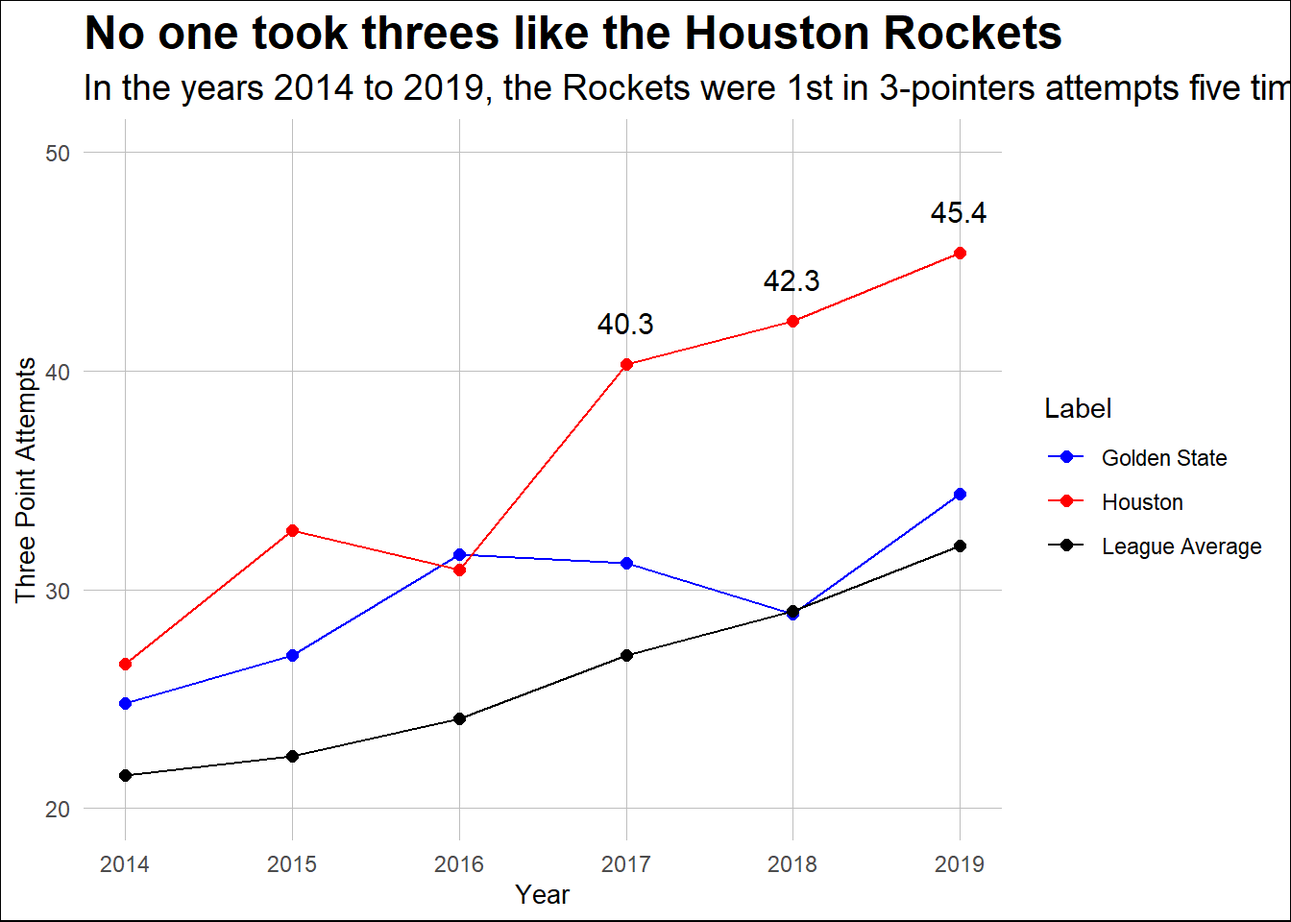
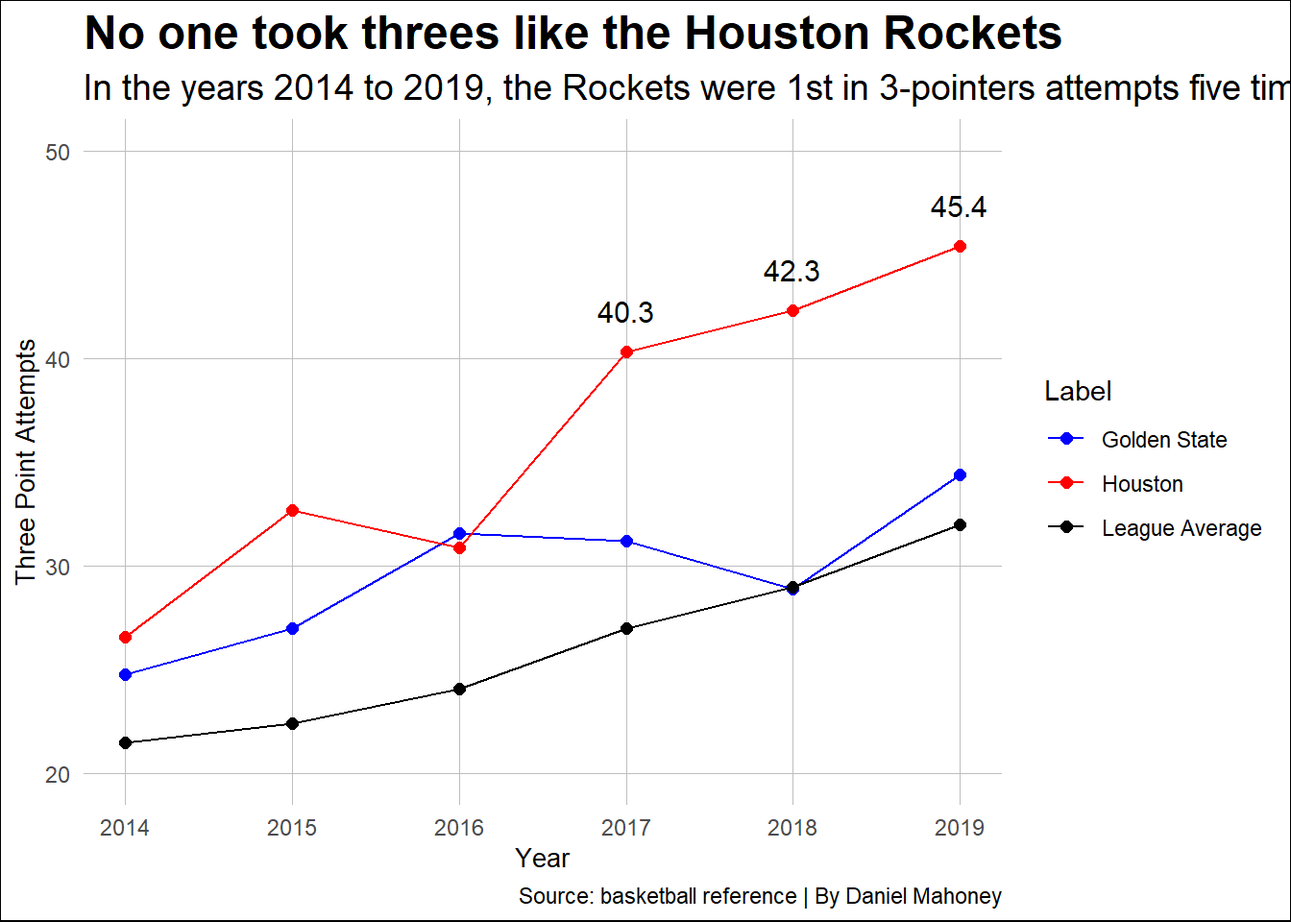
update index.html

diff --git a/posts/three-point-revolution/index.html b/posts/three-point-revolution/index.html
@@ -283,40 +283,41 @@ pre > code.sourceCode > span > a:first-child::before { text-decoration: underlin
 <span id="cb2-39"><a href="#cb2-39" aria-hidden="true" tabindex="-1"></a>    <span class="at">y =</span> <span class="st">"Three Point Attempts"</span>, <span class="at">x =</span> <span class="st">"Year"</span>,</span>
 <span id="cb2-40"><a href="#cb2-40" aria-hidden="true" tabindex="-1"></a>    <span class="at">title =</span> <span class="st">"No one took threes like the Houston Rockets"</span>,</span>
 <span id="cb2-41"><a href="#cb2-41" aria-hidden="true" tabindex="-1"></a>    <span class="at">subtitle =</span> <span class="st">"In the years 2014 to 2019, the Rockets were 1st in 3-pointers attempts five times in six years"</span>,</span>
-<span id="cb2-42"><a href="#cb2-42" aria-hidden="true" tabindex="-1"></a>    <span class="at">color =</span> <span class="st">"Label"</span>  </span>
-<span id="cb2-43"><a href="#cb2-43" aria-hidden="true" tabindex="-1"></a>  ) <span class="sc">+</span></span>
-<span id="cb2-44"><a href="#cb2-44" aria-hidden="true" tabindex="-1"></a>  <span class="fu">geom_text</span>(</span>
-<span id="cb2-45"><a href="#cb2-45" aria-hidden="true" tabindex="-1"></a>    <span class="fu">aes</span>(<span class="at">x =</span> <span class="dv">2017</span>, <span class="at">y =</span> <span class="fl">40.7</span>, <span class="at">label =</span> <span class="st">"40.3"</span>),</span>
-<span id="cb2-46"><a href="#cb2-46" aria-hidden="true" tabindex="-1"></a>    <span class="at">color =</span> <span class="st">"black"</span>,</span>
-<span id="cb2-47"><a href="#cb2-47" aria-hidden="true" tabindex="-1"></a>    <span class="at">size =</span> <span class="dv">4</span>,</span>
-<span id="cb2-48"><a href="#cb2-48" aria-hidden="true" tabindex="-1"></a>    <span class="at">vjust =</span> <span class="sc">-</span><span class="dv">1</span>,  </span>
-<span id="cb2-49"><a href="#cb2-49" aria-hidden="true" tabindex="-1"></a>    <span class="at">hjust =</span> <span class="fl">0.5</span>, </span>
-<span id="cb2-50"><a href="#cb2-50" aria-hidden="true" tabindex="-1"></a>  ) <span class="sc">+</span></span>
-<span id="cb2-51"><a href="#cb2-51" aria-hidden="true" tabindex="-1"></a>  <span class="fu">geom_text</span>(</span>
-<span id="cb2-52"><a href="#cb2-52" aria-hidden="true" tabindex="-1"></a>    <span class="fu">aes</span>(<span class="at">x =</span> <span class="dv">2018</span>, <span class="at">y =</span> <span class="fl">42.7</span>, <span class="at">label =</span> <span class="st">"42.3"</span>),</span>
-<span id="cb2-53"><a href="#cb2-53" aria-hidden="true" tabindex="-1"></a>    <span class="at">color =</span> <span class="st">"black"</span>,</span>
-<span id="cb2-54"><a href="#cb2-54" aria-hidden="true" tabindex="-1"></a>    <span class="at">size =</span> <span class="dv">4</span>,</span>
-<span id="cb2-55"><a href="#cb2-55" aria-hidden="true" tabindex="-1"></a>    <span class="at">vjust =</span> <span class="sc">-</span><span class="dv">1</span>,  </span>
-<span id="cb2-56"><a href="#cb2-56" aria-hidden="true" tabindex="-1"></a>    <span class="at">hjust =</span> <span class="fl">0.5</span>, </span>
-<span id="cb2-57"><a href="#cb2-57" aria-hidden="true" tabindex="-1"></a>  ) <span class="sc">+</span></span>
-<span id="cb2-58"><a href="#cb2-58" aria-hidden="true" tabindex="-1"></a>  <span class="fu">geom_text</span>(</span>
-<span id="cb2-59"><a href="#cb2-59" aria-hidden="true" tabindex="-1"></a>    <span class="fu">aes</span>(<span class="at">x =</span> <span class="dv">2019</span>, <span class="at">y =</span> <span class="fl">45.8</span>, <span class="at">label =</span> <span class="st">"45.4"</span>),</span>
-<span id="cb2-60"><a href="#cb2-60" aria-hidden="true" tabindex="-1"></a>    <span class="at">color =</span> <span class="st">"black"</span>,</span>
-<span id="cb2-61"><a href="#cb2-61" aria-hidden="true" tabindex="-1"></a>    <span class="at">size =</span> <span class="dv">4</span>,</span>
-<span id="cb2-62"><a href="#cb2-62" aria-hidden="true" tabindex="-1"></a>    <span class="at">vjust =</span> <span class="sc">-</span><span class="dv">1</span>,  </span>
-<span id="cb2-63"><a href="#cb2-63" aria-hidden="true" tabindex="-1"></a>    <span class="at">hjust =</span> <span class="fl">0.5</span>, </span>
-<span id="cb2-64"><a href="#cb2-64" aria-hidden="true" tabindex="-1"></a>  ) <span class="sc">+</span></span>
-<span id="cb2-65"><a href="#cb2-65" aria-hidden="true" tabindex="-1"></a>  <span class="fu">theme_minimal</span>() <span class="sc">+</span></span>
-<span id="cb2-66"><a href="#cb2-66" aria-hidden="true" tabindex="-1"></a>  <span class="fu">theme</span>(</span>
-<span id="cb2-67"><a href="#cb2-67" aria-hidden="true" tabindex="-1"></a>    <span class="at">plot.title =</span> <span class="fu">element_text</span>(<span class="at">size =</span> <span class="dv">18</span>, <span class="at">face =</span> <span class="st">"bold"</span>), </span>
-<span id="cb2-68"><a href="#cb2-68" aria-hidden="true" tabindex="-1"></a>    <span class="at">plot.background =</span> <span class="fu">element_rect</span>(<span class="at">fill =</span> <span class="st">"white"</span>),</span>
-<span id="cb2-69"><a href="#cb2-69" aria-hidden="true" tabindex="-1"></a>    <span class="at">plot.subtitle =</span> <span class="fu">element_text</span>(<span class="at">size =</span> <span class="dv">14</span>),  </span>
-<span id="cb2-70"><a href="#cb2-70" aria-hidden="true" tabindex="-1"></a>    <span class="at">axis.title =</span> <span class="fu">element_text</span>(<span class="at">size =</span> <span class="dv">10</span>),  </span>
-<span id="cb2-71"><a href="#cb2-71" aria-hidden="true" tabindex="-1"></a>    <span class="at">axis.text =</span> <span class="fu">element_text</span>(<span class="at">size =</span> <span class="dv">9</span>),  </span>
-<span id="cb2-72"><a href="#cb2-72" aria-hidden="true" tabindex="-1"></a>    <span class="at">strip.text =</span> <span class="fu">element_text</span>(<span class="at">size =</span> <span class="dv">10</span>, <span class="at">face =</span> <span class="st">"bold"</span>),  </span>
-<span id="cb2-73"><a href="#cb2-73" aria-hidden="true" tabindex="-1"></a>    <span class="at">panel.grid.minor =</span> <span class="fu">element_blank</span>(),  </span>
-<span id="cb2-74"><a href="#cb2-74" aria-hidden="true" tabindex="-1"></a>    <span class="at">panel.grid.major =</span> <span class="fu">element_line</span>(<span class="at">color =</span> <span class="st">"gray"</span>, <span class="at">size =</span> <span class="fl">0.2</span>)  </span>
-<span id="cb2-75"><a href="#cb2-75" aria-hidden="true" tabindex="-1"></a>  )</span></code><button title="Copy to Clipboard" class="code-copy-button"><i class="bi"></i></button></pre></div>
+<span id="cb2-42"><a href="#cb2-42" aria-hidden="true" tabindex="-1"></a>    <span class="at">caption =</span> <span class="st">"Source: basketball reference | By Daniel Mahoney"</span>,  </span>
+<span id="cb2-43"><a href="#cb2-43" aria-hidden="true" tabindex="-1"></a>    <span class="at">color =</span> <span class="st">"Label"</span>  </span>
+<span id="cb2-44"><a href="#cb2-44" aria-hidden="true" tabindex="-1"></a>  ) <span class="sc">+</span></span>
+<span id="cb2-45"><a href="#cb2-45" aria-hidden="true" tabindex="-1"></a>  <span class="fu">geom_text</span>(</span>
+<span id="cb2-46"><a href="#cb2-46" aria-hidden="true" tabindex="-1"></a>    <span class="fu">aes</span>(<span class="at">x =</span> <span class="dv">2017</span>, <span class="at">y =</span> <span class="fl">40.7</span>, <span class="at">label =</span> <span class="st">"40.3"</span>),</span>
+<span id="cb2-47"><a href="#cb2-47" aria-hidden="true" tabindex="-1"></a>    <span class="at">color =</span> <span class="st">"black"</span>,</span>
+<span id="cb2-48"><a href="#cb2-48" aria-hidden="true" tabindex="-1"></a>    <span class="at">size =</span> <span class="dv">4</span>,</span>
+<span id="cb2-49"><a href="#cb2-49" aria-hidden="true" tabindex="-1"></a>    <span class="at">vjust =</span> <span class="sc">-</span><span class="dv">1</span>,  </span>
+<span id="cb2-50"><a href="#cb2-50" aria-hidden="true" tabindex="-1"></a>    <span class="at">hjust =</span> <span class="fl">0.5</span></span>
+<span id="cb2-51"><a href="#cb2-51" aria-hidden="true" tabindex="-1"></a>  ) <span class="sc">+</span></span>
+<span id="cb2-52"><a href="#cb2-52" aria-hidden="true" tabindex="-1"></a>  <span class="fu">geom_text</span>(</span>
+<span id="cb2-53"><a href="#cb2-53" aria-hidden="true" tabindex="-1"></a>    <span class="fu">aes</span>(<span class="at">x =</span> <span class="dv">2018</span>, <span class="at">y =</span> <span class="fl">42.7</span>, <span class="at">label =</span> <span class="st">"42.3"</span>),</span>
+<span id="cb2-54"><a href="#cb2-54" aria-hidden="true" tabindex="-1"></a>    <span class="at">color =</span> <span class="st">"black"</span>,</span>
+<span id="cb2-55"><a href="#cb2-55" aria-hidden="true" tabindex="-1"></a>    <span class="at">size =</span> <span class="dv">4</span>,</span>
+<span id="cb2-56"><a href="#cb2-56" aria-hidden="true" tabindex="-1"></a>    <span class="at">vjust =</span> <span class="sc">-</span><span class="dv">1</span>,  </span>
+<span id="cb2-57"><a href="#cb2-57" aria-hidden="true" tabindex="-1"></a>    <span class="at">hjust =</span> <span class="fl">0.5</span></span>
+<span id="cb2-58"><a href="#cb2-58" aria-hidden="true" tabindex="-1"></a>  ) <span class="sc">+</span></span>
+<span id="cb2-59"><a href="#cb2-59" aria-hidden="true" tabindex="-1"></a>  <span class="fu">geom_text</span>(</span>
+<span id="cb2-60"><a href="#cb2-60" aria-hidden="true" tabindex="-1"></a>    <span class="fu">aes</span>(<span class="at">x =</span> <span class="dv">2019</span>, <span class="at">y =</span> <span class="fl">45.8</span>, <span class="at">label =</span> <span class="st">"45.4"</span>),</span>
+<span id="cb2-61"><a href="#cb2-61" aria-hidden="true" tabindex="-1"></a>    <span class="at">color =</span> <span class="st">"black"</span>,</span>
+<span id="cb2-62"><a href="#cb2-62" aria-hidden="true" tabindex="-1"></a>    <span class="at">size =</span> <span class="dv">4</span>,</span>
+<span id="cb2-63"><a href="#cb2-63" aria-hidden="true" tabindex="-1"></a>    <span class="at">vjust =</span> <span class="sc">-</span><span class="dv">1</span>,  </span>
+<span id="cb2-64"><a href="#cb2-64" aria-hidden="true" tabindex="-1"></a>    <span class="at">hjust =</span> <span class="fl">0.5</span></span>
+<span id="cb2-65"><a href="#cb2-65" aria-hidden="true" tabindex="-1"></a>  ) <span class="sc">+</span></span>
+<span id="cb2-66"><a href="#cb2-66" aria-hidden="true" tabindex="-1"></a>  <span class="fu">theme_minimal</span>() <span class="sc">+</span></span>
+<span id="cb2-67"><a href="#cb2-67" aria-hidden="true" tabindex="-1"></a>  <span class="fu">theme</span>(</span>
+<span id="cb2-68"><a href="#cb2-68" aria-hidden="true" tabindex="-1"></a>    <span class="at">plot.title =</span> <span class="fu">element_text</span>(<span class="at">size =</span> <span class="dv">18</span>, <span class="at">face =</span> <span class="st">"bold"</span>), </span>
+<span id="cb2-69"><a href="#cb2-69" aria-hidden="true" tabindex="-1"></a>    <span class="at">plot.background =</span> <span class="fu">element_rect</span>(<span class="at">fill =</span> <span class="st">"white"</span>),</span>
+<span id="cb2-70"><a href="#cb2-70" aria-hidden="true" tabindex="-1"></a>    <span class="at">plot.subtitle =</span> <span class="fu">element_text</span>(<span class="at">size =</span> <span class="dv">14</span>),  </span>
+<span id="cb2-71"><a href="#cb2-71" aria-hidden="true" tabindex="-1"></a>    <span class="at">axis.title =</span> <span class="fu">element_text</span>(<span class="at">size =</span> <span class="dv">10</span>),  </span>
+<span id="cb2-72"><a href="#cb2-72" aria-hidden="true" tabindex="-1"></a>    <span class="at">axis.text =</span> <span class="fu">element_text</span>(<span class="at">size =</span> <span class="dv">9</span>),  </span>
+<span id="cb2-73"><a href="#cb2-73" aria-hidden="true" tabindex="-1"></a>    <span class="at">strip.text =</span> <span class="fu">element_text</span>(<span class="at">size =</span> <span class="dv">10</span>, <span class="at">face =</span> <span class="st">"bold"</span>),  </span>
+<span id="cb2-74"><a href="#cb2-74" aria-hidden="true" tabindex="-1"></a>    <span class="at">panel.grid.minor =</span> <span class="fu">element_blank</span>(),  </span>
+<span id="cb2-75"><a href="#cb2-75" aria-hidden="true" tabindex="-1"></a>    <span class="at">panel.grid.major =</span> <span class="fu">element_line</span>(<span class="at">color =</span> <span class="st">"gray"</span>, <span class="at">size =</span> <span class="fl">0.2</span>)  </span>
+<span id="cb2-76"><a href="#cb2-76" aria-hidden="true" tabindex="-1"></a>  )</span></code><button title="Copy to Clipboard" class="code-copy-button"><i class="bi"></i></button></pre></div>
 </details>
 <div class="cell-output-display">
 <div>
@@ -330,63 +331,66 @@ pre > code.sourceCode > span > a:first-child::before { text-decoration: underlin
 <details class="code-fold">
 <summary>Code</summary>
 <div class="sourceCode cell-code" id="cb3"><pre class="sourceCode r code-with-copy"><code class="sourceCode r"><span id="cb3-1"><a href="#cb3-1" aria-hidden="true" tabindex="-1"></a>GoodTeams <span class="ot">&lt;-</span> logs24 <span class="sc">|&gt;</span>  </span>
-<span id="cb3-2"><a href="#cb3-2" aria-hidden="true" tabindex="-1"></a>  <span class="fu">filter</span>(Wins <span class="sc">&gt;</span> <span class="dv">46</span>) <span class="sc">%&gt;%</span></span>
+<span id="cb3-2"><a href="#cb3-2" aria-hidden="true" tabindex="-1"></a>  <span class="fu">filter</span>(Wins <span class="sc">&gt;</span> <span class="dv">49</span>) <span class="sc">%&gt;%</span></span>
 <span id="cb3-3"><a href="#cb3-3" aria-hidden="true" tabindex="-1"></a>  <span class="fu">group_by</span>(Team)</span>
-<span id="cb3-4"><a href="#cb3-4" aria-hidden="true" tabindex="-1"></a></span>
-<span id="cb3-5"><a href="#cb3-5" aria-hidden="true" tabindex="-1"></a><span class="fu">ggplot</span>() <span class="sc">+</span></span>
-<span id="cb3-6"><a href="#cb3-6" aria-hidden="true" tabindex="-1"></a>  <span class="fu">geom_point</span>(</span>
-<span id="cb3-7"><a href="#cb3-7" aria-hidden="true" tabindex="-1"></a>    <span class="at">data =</span> logs24,</span>
-<span id="cb3-8"><a href="#cb3-8" aria-hidden="true" tabindex="-1"></a>    <span class="fu">aes</span>(</span>
-<span id="cb3-9"><a href="#cb3-9" aria-hidden="true" tabindex="-1"></a>      <span class="at">x =</span> <span class="st">`</span><span class="at">3P Attempts</span><span class="st">`</span>, </span>
-<span id="cb3-10"><a href="#cb3-10" aria-hidden="true" tabindex="-1"></a>      <span class="at">y =</span> <span class="st">`</span><span class="at">3P Percentage</span><span class="st">`</span>, </span>
-<span id="cb3-11"><a href="#cb3-11" aria-hidden="true" tabindex="-1"></a>      <span class="at">size =</span> Wins</span>
-<span id="cb3-12"><a href="#cb3-12" aria-hidden="true" tabindex="-1"></a>    ),</span>
-<span id="cb3-13"><a href="#cb3-13" aria-hidden="true" tabindex="-1"></a>    <span class="at">alpha =</span> .<span class="dv">3</span></span>
-<span id="cb3-14"><a href="#cb3-14" aria-hidden="true" tabindex="-1"></a>  ) <span class="sc">+</span> </span>
-<span id="cb3-15"><a href="#cb3-15" aria-hidden="true" tabindex="-1"></a>  <span class="fu">geom_point</span>(</span>
-<span id="cb3-16"><a href="#cb3-16" aria-hidden="true" tabindex="-1"></a>    <span class="at">data =</span> GoodTeams, </span>
-<span id="cb3-17"><a href="#cb3-17" aria-hidden="true" tabindex="-1"></a>    <span class="fu">aes</span>(</span>
-<span id="cb3-18"><a href="#cb3-18" aria-hidden="true" tabindex="-1"></a>      <span class="at">x =</span> <span class="st">`</span><span class="at">3P Attempts</span><span class="st">`</span>, </span>
-<span id="cb3-19"><a href="#cb3-19" aria-hidden="true" tabindex="-1"></a>      <span class="at">y =</span> <span class="st">`</span><span class="at">3P Percentage</span><span class="st">`</span>, </span>
-<span id="cb3-20"><a href="#cb3-20" aria-hidden="true" tabindex="-1"></a>      <span class="at">size =</span> Wins</span>
-<span id="cb3-21"><a href="#cb3-21" aria-hidden="true" tabindex="-1"></a>    ),</span>
-<span id="cb3-22"><a href="#cb3-22" aria-hidden="true" tabindex="-1"></a>    <span class="at">alpha =</span> .<span class="dv">3</span>,</span>
-<span id="cb3-23"><a href="#cb3-23" aria-hidden="true" tabindex="-1"></a>    <span class="at">color =</span> <span class="st">"blue"</span></span>
-<span id="cb3-24"><a href="#cb3-24" aria-hidden="true" tabindex="-1"></a>  ) <span class="sc">+</span> </span>
-<span id="cb3-25"><a href="#cb3-25" aria-hidden="true" tabindex="-1"></a>  <span class="fu">geom_text_repel</span>(</span>
-<span id="cb3-26"><a href="#cb3-26" aria-hidden="true" tabindex="-1"></a>    <span class="at">data =</span> logs24, </span>
-<span id="cb3-27"><a href="#cb3-27" aria-hidden="true" tabindex="-1"></a>    <span class="fu">aes</span>(</span>
-<span id="cb3-28"><a href="#cb3-28" aria-hidden="true" tabindex="-1"></a>      <span class="at">x =</span> <span class="st">`</span><span class="at">3P Attempts</span><span class="st">`</span>, </span>
-<span id="cb3-29"><a href="#cb3-29" aria-hidden="true" tabindex="-1"></a>      <span class="at">y =</span> <span class="st">`</span><span class="at">3P Percentage</span><span class="st">`</span>, </span>
-<span id="cb3-30"><a href="#cb3-30" aria-hidden="true" tabindex="-1"></a>      <span class="at">label =</span> Team</span>
-<span id="cb3-31"><a href="#cb3-31" aria-hidden="true" tabindex="-1"></a>    )</span>
-<span id="cb3-32"><a href="#cb3-32" aria-hidden="true" tabindex="-1"></a>  ) <span class="sc">+</span></span>
-<span id="cb3-33"><a href="#cb3-33" aria-hidden="true" tabindex="-1"></a>  <span class="fu">scale_size</span>(<span class="at">range =</span> <span class="fu">c</span>(<span class="dv">3</span>, <span class="dv">8</span>), <span class="at">name =</span> <span class="st">"Wins"</span>) <span class="sc">+</span></span>
-<span id="cb3-34"><a href="#cb3-34" aria-hidden="true" tabindex="-1"></a>  <span class="fu">scale_size_continuous</span>(</span>
-<span id="cb3-35"><a href="#cb3-35" aria-hidden="true" tabindex="-1"></a>    <span class="at">breaks =</span> <span class="fu">c</span>(<span class="dv">45</span>, <span class="dv">50</span>, <span class="dv">55</span>, <span class="dv">60</span>),</span>
-<span id="cb3-36"><a href="#cb3-36" aria-hidden="true" tabindex="-1"></a>    <span class="at">labels =</span> <span class="fu">c</span>(<span class="st">"45"</span>, <span class="st">"50"</span>, <span class="st">"55"</span>, <span class="st">"60"</span>),</span>
-<span id="cb3-37"><a href="#cb3-37" aria-hidden="true" tabindex="-1"></a>    <span class="at">range =</span> <span class="fu">c</span>(<span class="dv">2</span>, <span class="dv">6</span>)</span>
-<span id="cb3-38"><a href="#cb3-38" aria-hidden="true" tabindex="-1"></a>  ) <span class="sc">+</span></span>
-<span id="cb3-39"><a href="#cb3-39" aria-hidden="true" tabindex="-1"></a>  <span class="fu">labs</span>(</span>
-<span id="cb3-40"><a href="#cb3-40" aria-hidden="true" tabindex="-1"></a>    <span class="at">x =</span> <span class="st">"Three Point Attempts"</span>,</span>
-<span id="cb3-41"><a href="#cb3-41" aria-hidden="true" tabindex="-1"></a>    <span class="at">y =</span> <span class="st">"Three Point Percentage"</span>,</span>
-<span id="cb3-42"><a href="#cb3-42" aria-hidden="true" tabindex="-1"></a>    <span class="at">title =</span> <span class="st">"The NBA has changed but the best teams still have an identity"</span>,</span>
-<span id="cb3-43"><a href="#cb3-43" aria-hidden="true" tabindex="-1"></a>    <span class="at">subtitle =</span> <span class="st">"The most successful NBA teams have an identity that is based on the players that are on their roster, not just chucking up threes"</span>,</span>
-<span id="cb3-44"><a href="#cb3-44" aria-hidden="true" tabindex="-1"></a>    <span class="at">caption =</span> <span class="st">"Source: nba.com | By Daniel Mahoney"</span></span>
-<span id="cb3-45"><a href="#cb3-45" aria-hidden="true" tabindex="-1"></a>  ) <span class="sc">+</span></span>
-<span id="cb3-46"><a href="#cb3-46" aria-hidden="true" tabindex="-1"></a>  <span class="fu">guides</span>(<span class="at">size =</span> <span class="fu">guide_legend</span>(<span class="at">title =</span> <span class="st">"Wins"</span>, <span class="at">override.aes =</span> <span class="fu">list</span>(<span class="at">color =</span> <span class="st">"#333333"</span>))) <span class="sc">+</span></span>
-<span id="cb3-47"><a href="#cb3-47" aria-hidden="true" tabindex="-1"></a>  <span class="fu">theme_minimal</span>() <span class="sc">+</span></span>
-<span id="cb3-48"><a href="#cb3-48" aria-hidden="true" tabindex="-1"></a>  <span class="fu">theme</span>(</span>
-<span id="cb3-49"><a href="#cb3-49" aria-hidden="true" tabindex="-1"></a>    <span class="at">plot.title =</span> <span class="fu">element_text</span>(<span class="at">size =</span> <span class="dv">18</span>, <span class="at">face =</span> <span class="st">"bold"</span>), </span>
-<span id="cb3-50"><a href="#cb3-50" aria-hidden="true" tabindex="-1"></a>     <span class="at">plot.background =</span> <span class="fu">element_rect</span>(<span class="at">fill =</span> <span class="st">"white"</span>),</span>
-<span id="cb3-51"><a href="#cb3-51" aria-hidden="true" tabindex="-1"></a>    <span class="at">plot.subtitle =</span> <span class="fu">element_text</span>(<span class="at">size =</span> <span class="dv">14</span>),  </span>
-<span id="cb3-52"><a href="#cb3-52" aria-hidden="true" tabindex="-1"></a>    <span class="at">axis.title =</span> <span class="fu">element_text</span>(<span class="at">size =</span> <span class="dv">10</span>),  </span>
-<span id="cb3-53"><a href="#cb3-53" aria-hidden="true" tabindex="-1"></a>    <span class="at">axis.text =</span> <span class="fu">element_text</span>(<span class="at">size =</span> <span class="dv">9</span>),  </span>
-<span id="cb3-54"><a href="#cb3-54" aria-hidden="true" tabindex="-1"></a>    <span class="at">strip.text =</span> <span class="fu">element_text</span>(<span class="at">size =</span> <span class="dv">10</span>, <span class="at">face =</span> <span class="st">"bold"</span>),  </span>
-<span id="cb3-55"><a href="#cb3-55" aria-hidden="true" tabindex="-1"></a>    <span class="at">panel.grid.minor =</span> <span class="fu">element_blank</span>(),  </span>
-<span id="cb3-56"><a href="#cb3-56" aria-hidden="true" tabindex="-1"></a>    <span class="at">panel.grid.major =</span> <span class="fu">element_line</span>(<span class="at">color =</span> <span class="st">"gray"</span>, <span class="at">size =</span> <span class="fl">0.2</span>)  </span>
-<span id="cb3-57"><a href="#cb3-57" aria-hidden="true" tabindex="-1"></a>  )</span></code><button title="Copy to Clipboard" class="code-copy-button"><i class="bi"></i></button></pre></div>
+<span id="cb3-4"><a href="#cb3-4" aria-hidden="true" tabindex="-1"></a><span class="fu">ggplot</span>() <span class="sc">+</span></span>
+<span id="cb3-5"><a href="#cb3-5" aria-hidden="true" tabindex="-1"></a>  <span class="fu">geom_point</span>(</span>
+<span id="cb3-6"><a href="#cb3-6" aria-hidden="true" tabindex="-1"></a>    <span class="at">data =</span> logs24,</span>
+<span id="cb3-7"><a href="#cb3-7" aria-hidden="true" tabindex="-1"></a>    <span class="fu">aes</span>(</span>
+<span id="cb3-8"><a href="#cb3-8" aria-hidden="true" tabindex="-1"></a>      <span class="at">x =</span> <span class="st">`</span><span class="at">3P Attempts</span><span class="st">`</span>, </span>
+<span id="cb3-9"><a href="#cb3-9" aria-hidden="true" tabindex="-1"></a>      <span class="at">y =</span> <span class="st">`</span><span class="at">3P Percentage</span><span class="st">`</span>, </span>
+<span id="cb3-10"><a href="#cb3-10" aria-hidden="true" tabindex="-1"></a>      <span class="at">size =</span> Wins</span>
+<span id="cb3-11"><a href="#cb3-11" aria-hidden="true" tabindex="-1"></a>    ),</span>
+<span id="cb3-12"><a href="#cb3-12" aria-hidden="true" tabindex="-1"></a>    <span class="at">alpha =</span> .<span class="dv">3</span></span>
+<span id="cb3-13"><a href="#cb3-13" aria-hidden="true" tabindex="-1"></a>  ) <span class="sc">+</span> </span>
+<span id="cb3-14"><a href="#cb3-14" aria-hidden="true" tabindex="-1"></a>  <span class="fu">geom_point</span>(</span>
+<span id="cb3-15"><a href="#cb3-15" aria-hidden="true" tabindex="-1"></a>    <span class="at">data =</span> GoodTeams, </span>
+<span id="cb3-16"><a href="#cb3-16" aria-hidden="true" tabindex="-1"></a>    <span class="fu">aes</span>(</span>
+<span id="cb3-17"><a href="#cb3-17" aria-hidden="true" tabindex="-1"></a>      <span class="at">x =</span> <span class="st">`</span><span class="at">3P Attempts</span><span class="st">`</span>, </span>
+<span id="cb3-18"><a href="#cb3-18" aria-hidden="true" tabindex="-1"></a>      <span class="at">y =</span> <span class="st">`</span><span class="at">3P Percentage</span><span class="st">`</span>, </span>
+<span id="cb3-19"><a href="#cb3-19" aria-hidden="true" tabindex="-1"></a>      <span class="at">size =</span> Wins</span>
+<span id="cb3-20"><a href="#cb3-20" aria-hidden="true" tabindex="-1"></a>    ),</span>
+<span id="cb3-21"><a href="#cb3-21" aria-hidden="true" tabindex="-1"></a>    <span class="at">alpha =</span> .<span class="dv">3</span>,</span>
+<span id="cb3-22"><a href="#cb3-22" aria-hidden="true" tabindex="-1"></a>    <span class="at">color =</span> <span class="st">"blue"</span></span>
+<span id="cb3-23"><a href="#cb3-23" aria-hidden="true" tabindex="-1"></a>  ) <span class="sc">+</span> </span>
+<span id="cb3-24"><a href="#cb3-24" aria-hidden="true" tabindex="-1"></a>  <span class="fu">geom_text_repel</span>(</span>
+<span id="cb3-25"><a href="#cb3-25" aria-hidden="true" tabindex="-1"></a>    <span class="at">data =</span> GoodTeams,  </span>
+<span id="cb3-26"><a href="#cb3-26" aria-hidden="true" tabindex="-1"></a>    <span class="fu">aes</span>(</span>
+<span id="cb3-27"><a href="#cb3-27" aria-hidden="true" tabindex="-1"></a>      <span class="at">x =</span> <span class="st">`</span><span class="at">3P Attempts</span><span class="st">`</span>, </span>
+<span id="cb3-28"><a href="#cb3-28" aria-hidden="true" tabindex="-1"></a>      <span class="at">y =</span> <span class="st">`</span><span class="at">3P Percentage</span><span class="st">`</span>, </span>
+<span id="cb3-29"><a href="#cb3-29" aria-hidden="true" tabindex="-1"></a>      <span class="at">label =</span> Team</span>
+<span id="cb3-30"><a href="#cb3-30" aria-hidden="true" tabindex="-1"></a>    )</span>
+<span id="cb3-31"><a href="#cb3-31" aria-hidden="true" tabindex="-1"></a>  ) <span class="sc">+</span></span>
+<span id="cb3-32"><a href="#cb3-32" aria-hidden="true" tabindex="-1"></a>  <span class="fu">scale_size</span>(<span class="at">range =</span> <span class="fu">c</span>(<span class="dv">3</span>, <span class="dv">8</span>), <span class="at">name =</span> <span class="st">"Wins"</span>) <span class="sc">+</span></span>
+<span id="cb3-33"><a href="#cb3-33" aria-hidden="true" tabindex="-1"></a>  <span class="fu">scale_size_continuous</span>(</span>
+<span id="cb3-34"><a href="#cb3-34" aria-hidden="true" tabindex="-1"></a>    <span class="at">breaks =</span> <span class="fu">c</span>(<span class="dv">45</span>, <span class="dv">50</span>, <span class="dv">55</span>, <span class="dv">60</span>),</span>
+<span id="cb3-35"><a href="#cb3-35" aria-hidden="true" tabindex="-1"></a>    <span class="at">labels =</span> <span class="fu">c</span>(<span class="st">"45"</span>, <span class="st">"50"</span>, <span class="st">"55"</span>, <span class="st">"60"</span>),</span>
+<span id="cb3-36"><a href="#cb3-36" aria-hidden="true" tabindex="-1"></a>    <span class="at">range =</span> <span class="fu">c</span>(<span class="dv">2</span>, <span class="dv">6</span>)</span>
+<span id="cb3-37"><a href="#cb3-37" aria-hidden="true" tabindex="-1"></a>  ) <span class="sc">+</span></span>
+<span id="cb3-38"><a href="#cb3-38" aria-hidden="true" tabindex="-1"></a>  <span class="fu">labs</span>(</span>
+<span id="cb3-39"><a href="#cb3-39" aria-hidden="true" tabindex="-1"></a>    <span class="at">x =</span> <span class="st">"Three Point Attempts"</span>,</span>
+<span id="cb3-40"><a href="#cb3-40" aria-hidden="true" tabindex="-1"></a>    <span class="at">y =</span> <span class="st">"Three Point Percentage"</span>,</span>
+<span id="cb3-41"><a href="#cb3-41" aria-hidden="true" tabindex="-1"></a>    <span class="at">title =</span> <span class="st">"While the NBA has evolved, the best teams still have their own identity"</span>,</span>
+<span id="cb3-42"><a href="#cb3-42" aria-hidden="true" tabindex="-1"></a>    <span class="at">subtitle =</span> <span class="st">"The most successful NBA teams have an identity shaped by their players"</span>,</span>
+<span id="cb3-43"><a href="#cb3-43" aria-hidden="true" tabindex="-1"></a>    <span class="at">caption =</span> <span class="st">"Source: nba.com | By Daniel Mahoney"</span></span>
+<span id="cb3-44"><a href="#cb3-44" aria-hidden="true" tabindex="-1"></a>  ) <span class="sc">+</span></span>
+<span id="cb3-45"><a href="#cb3-45" aria-hidden="true" tabindex="-1"></a>  <span class="fu">guides</span>(<span class="at">size =</span> <span class="fu">guide_legend</span>(<span class="at">title =</span> <span class="st">"Wins"</span>, <span class="at">override.aes =</span> <span class="fu">list</span>(<span class="at">color =</span> <span class="st">"#333333"</span>))) <span class="sc">+</span></span>
+<span id="cb3-46"><a href="#cb3-46" aria-hidden="true" tabindex="-1"></a>  <span class="fu">theme_minimal</span>() <span class="sc">+</span></span>
+<span id="cb3-47"><a href="#cb3-47" aria-hidden="true" tabindex="-1"></a>  <span class="fu">theme</span>(</span>
+<span id="cb3-48"><a href="#cb3-48" aria-hidden="true" tabindex="-1"></a>    <span class="at">plot.title =</span> <span class="fu">element_text</span>(<span class="at">size =</span> <span class="dv">18</span>, <span class="at">face =</span> <span class="st">"bold"</span>), </span>
+<span id="cb3-49"><a href="#cb3-49" aria-hidden="true" tabindex="-1"></a>    <span class="at">plot.background =</span> <span class="fu">element_rect</span>(<span class="at">fill =</span> <span class="st">"white"</span>),</span>
+<span id="cb3-50"><a href="#cb3-50" aria-hidden="true" tabindex="-1"></a>    <span class="at">plot.subtitle =</span> <span class="fu">element_text</span>(<span class="at">size =</span> <span class="dv">14</span>),  </span>
+<span id="cb3-51"><a href="#cb3-51" aria-hidden="true" tabindex="-1"></a>    <span class="at">axis.title =</span> <span class="fu">element_text</span>(<span class="at">size =</span> <span class="dv">10</span>),  </span>
+<span id="cb3-52"><a href="#cb3-52" aria-hidden="true" tabindex="-1"></a>    <span class="at">axis.text =</span> <span class="fu">element_text</span>(<span class="at">size =</span> <span class="dv">9</span>),  </span>
+<span id="cb3-53"><a href="#cb3-53" aria-hidden="true" tabindex="-1"></a>    <span class="at">strip.text =</span> <span class="fu">element_text</span>(<span class="at">size =</span> <span class="dv">10</span>, <span class="at">face =</span> <span class="st">"bold"</span>),  </span>
+<span id="cb3-54"><a href="#cb3-54" aria-hidden="true" tabindex="-1"></a>    <span class="at">panel.grid.minor =</span> <span class="fu">element_blank</span>(),  </span>
+<span id="cb3-55"><a href="#cb3-55" aria-hidden="true" tabindex="-1"></a>    <span class="at">panel.grid.major =</span> <span class="fu">element_line</span>(<span class="at">color =</span> <span class="st">"gray"</span>, <span class="at">size =</span> <span class="fl">0.2</span>)  </span>
+<span id="cb3-56"><a href="#cb3-56" aria-hidden="true" tabindex="-1"></a>  )</span></code><button title="Copy to Clipboard" class="code-copy-button"><i class="bi"></i></button></pre></div>
 </details>
+<div class="cell-output cell-output-stderr">
+<pre><code>Scale for size is already present.
+Adding another scale for size, which will replace the existing scale.</code></pre>
+</div>
 <div class="cell-output-display">
 <div>
 <figure class="figure">

diff --git a/index.html b/index.html
@@ -205,7 +205,7 @@ window.Quarto = {
 
 <div class="quarto-listing quarto-listing-container-default" id="listing-listing">
 <div class="list quarto-listing-default">
-<div class="quarto-post image-right" data-index="0" data-categories="YmFza2V0YmFsbCxuYmEsc3RlcGg=" data-listing-date-sort="1733205600000" data-listing-file-modified-sort="1733429927950" data-listing-date-modified-sort="NaN" data-listing-reading-time-sort="7" data-listing-word-count-sort="1220">
+<div class="quarto-post image-right" data-index="0" data-categories="YmFza2V0YmFsbCxuYmEsc3RlcGg=" data-listing-date-sort="1733205600000" data-listing-file-modified-sort="1733430677231" data-listing-date-modified-sort="NaN" data-listing-reading-time-sort="7" data-listing-word-count-sort="1216">
 <div class="thumbnail">
 <p><a href="./posts/three-point-revolution/index.html" class="no-external"></a></p><a href="./posts/three-point-revolution/index.html" class="no-external">
 <p><img loading="lazy" src="./posts/three-point-revolution/image.png" class="thumbnail-image"></p>
